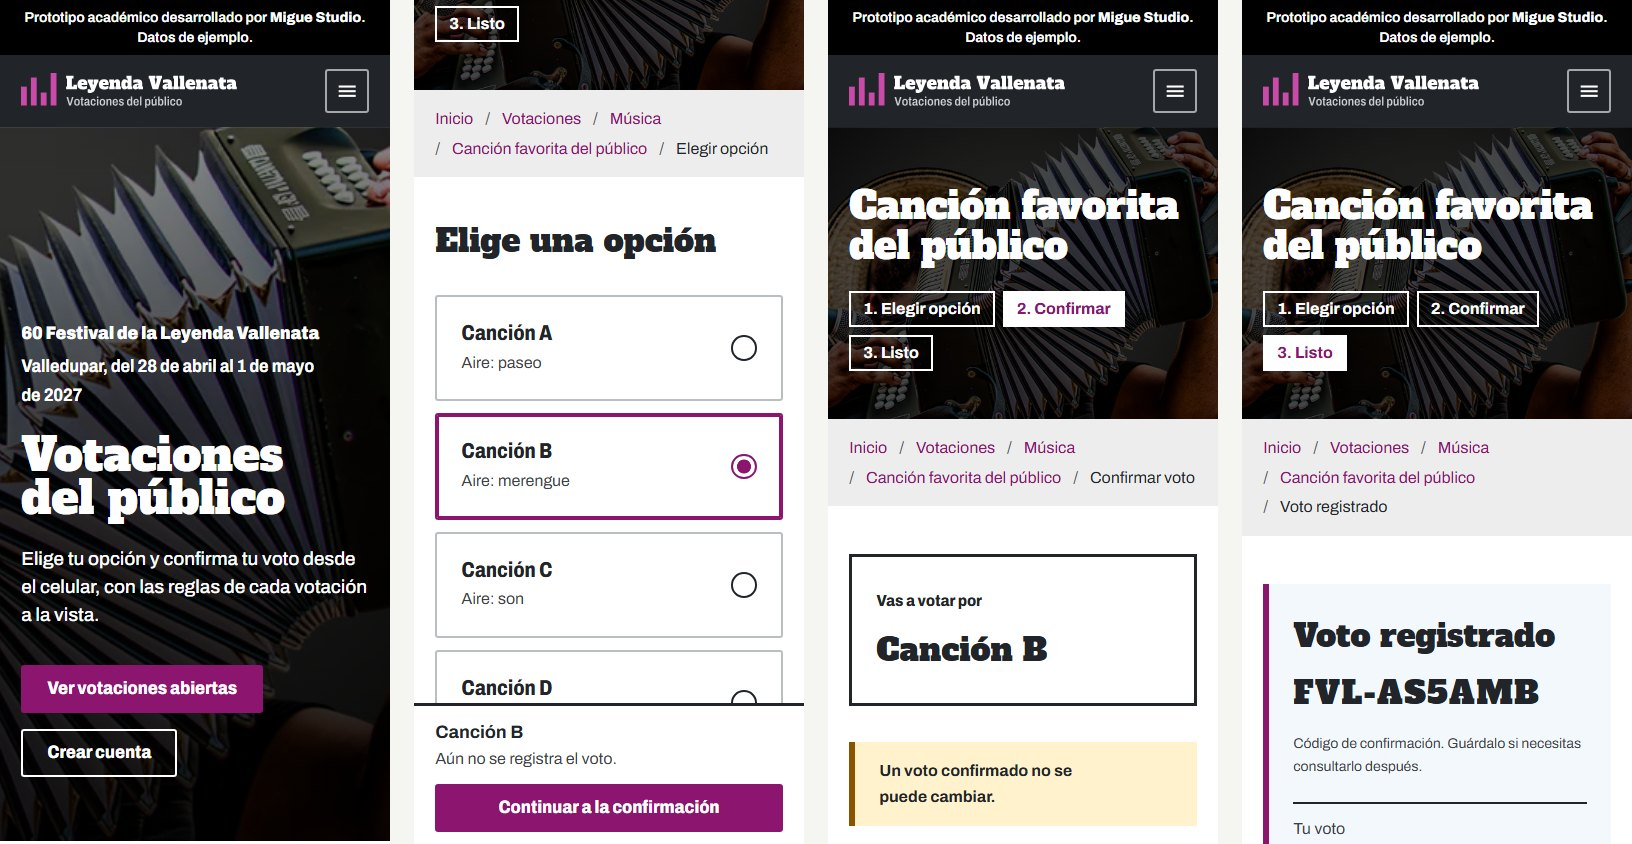
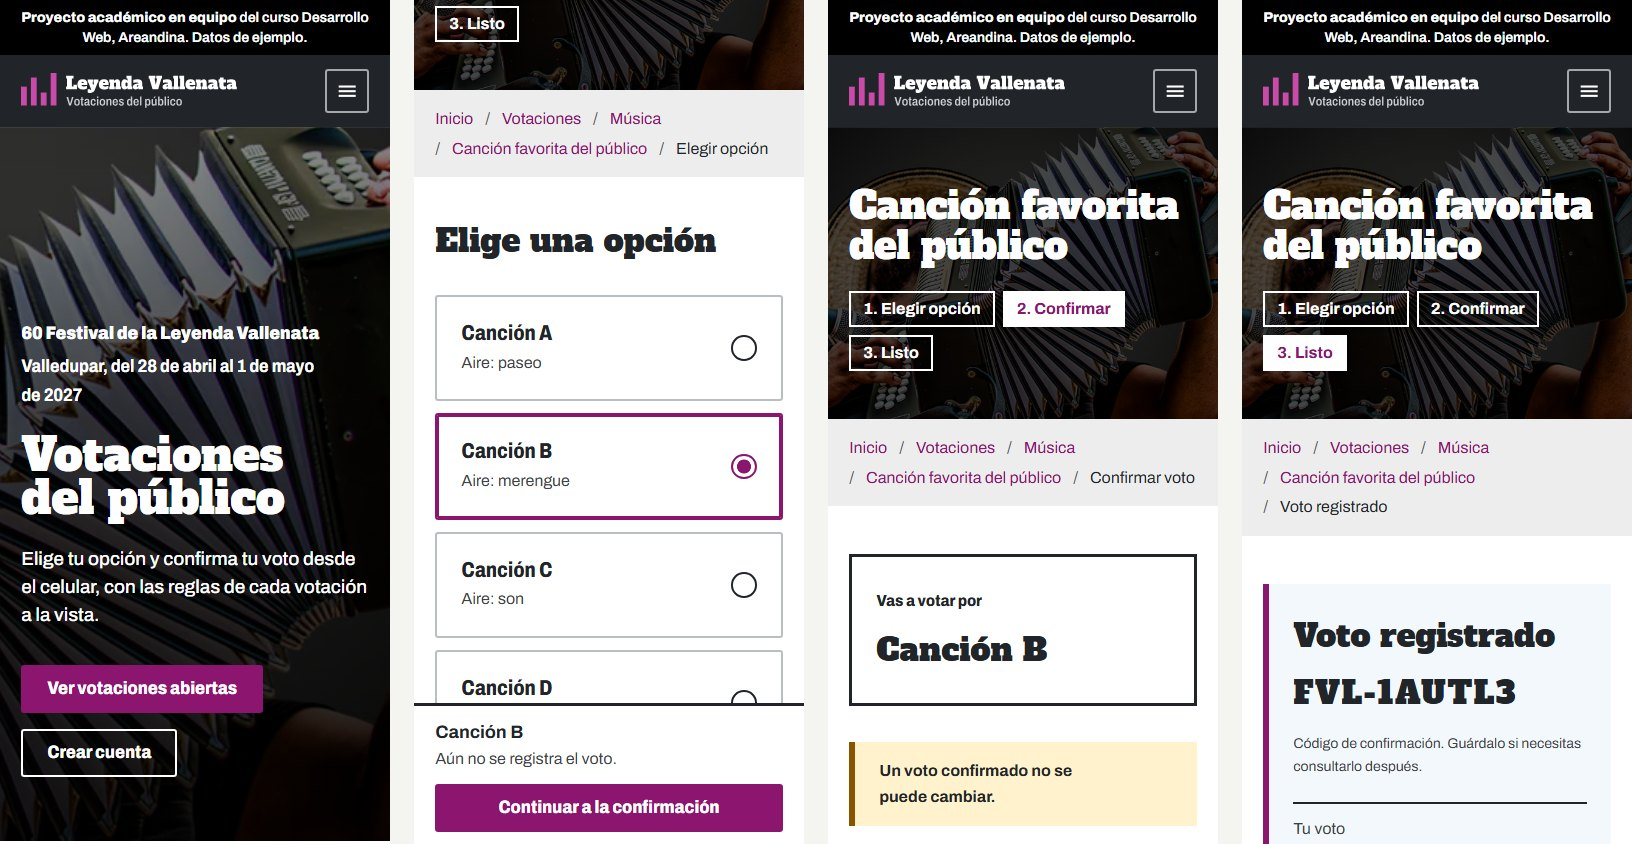
Credit the project as a university team project
Replace the personal studio signature in the notice, admin console and footer with the course team credit, describe the team and roles in the README and refresh the README screenshots.

diff --git a/assets/js/ui/chrome.js b/assets/js/ui/chrome.js
@@ -101,9 +101,8 @@ function buildHeader({ user, root, page }) {
       el(
         "div",
         { class: "container" },
-        "Prototipo académico desarrollado por ",
-        el("strong", {}, "Migue Studio"),
-        ". Datos de ejemplo.",
+        el("strong", {}, "Proyecto académico en equipo"),
+        " del curso Desarrollo Web, Areandina. Datos de ejemplo.",
       ),
     ),
     el(
@@ -177,7 +176,7 @@ function buildConsole({ user, root, page }) {
         },
         "Cerrar sesión",
       ),
-      el("p", { class: "console-note" }, "Prototipo académico de ", el("strong", {}, "Migue Studio"), ". Datos de ejemplo."),
+      el("p", { class: "console-note" }, "Proyecto académico en equipo, Desarrollo Web, Areandina. Datos de ejemplo."),
     ),
   );
 
@@ -260,7 +259,7 @@ function buildFooter(root) {
     el(
       "div",
       { class: "site-footer__bottom" },
-      el("div", { class: "container" }, "2026. Diseño y desarrollo: ", el("strong", {}, "Migue Studio")),
+      el("div", { class: "container" }, "2026. Proyecto académico en equipo, grupo ", el("span", { class: "nowrap" }, "202660-6A-62"), "."),
     ),
   );
 }

diff --git a/README.md b/README.md
@@ -4,7 +4,7 @@ Interactive front-end prototype of a configurable public voting platform for the
 
 **Live demo:** https://jsanchez542-hub.github.io/vallenata-festival-voting-system/
 
-It was built as the design deliverable of a university team project (Web Development, Fundación Universitaria del Área Andina). The brief was to analyze and design the platform before building it, so this prototype validates the flows and the interface, not the backend. The target stack for the real system is Django and MySQL.
+It is part of a university team project for the Web Development course at Fundación Universitaria del Área Andina (first deliverable: analysis, design and prototype). The team wrote the analysis and design document together, and this prototype is its interactive counterpart. The brief was to analyze and design the platform before building it, so this prototype validates the flows and the interface, not the backend. The target stack for the real system is Django and MySQL.
 
 This is an academic prototype. It is not an official site of the Fundación Festival de la Leyenda Vallenata, and all categories, polls and rules shown are sample data pending validation with the client.
 
@@ -128,8 +128,10 @@ docs/         Screenshots
 - Password hashing and the sign-in lock run in the browser because there is no server. The Django implementation will rely on its own password hashers and server-side rate limiting.
 - Rules, categories and polls are examples. The open questions for the client are tracked in the project analysis document.
 
-## Credits
+## Team and credits
 
-Design and development: Miguel Sanchez Torres.
+Team project, Web Development course (group 202660-6A-62), Fundación Universitaria del Área Andina, 2026. The analysis and design document is the shared work of the team.
+
+Prototype design and development, as the team's UX/UI and prototype lead: Miguel Sanchez Torres.
 
 Fonts: Alfa Slab One and Archivo, both under the SIL Open Font License.
